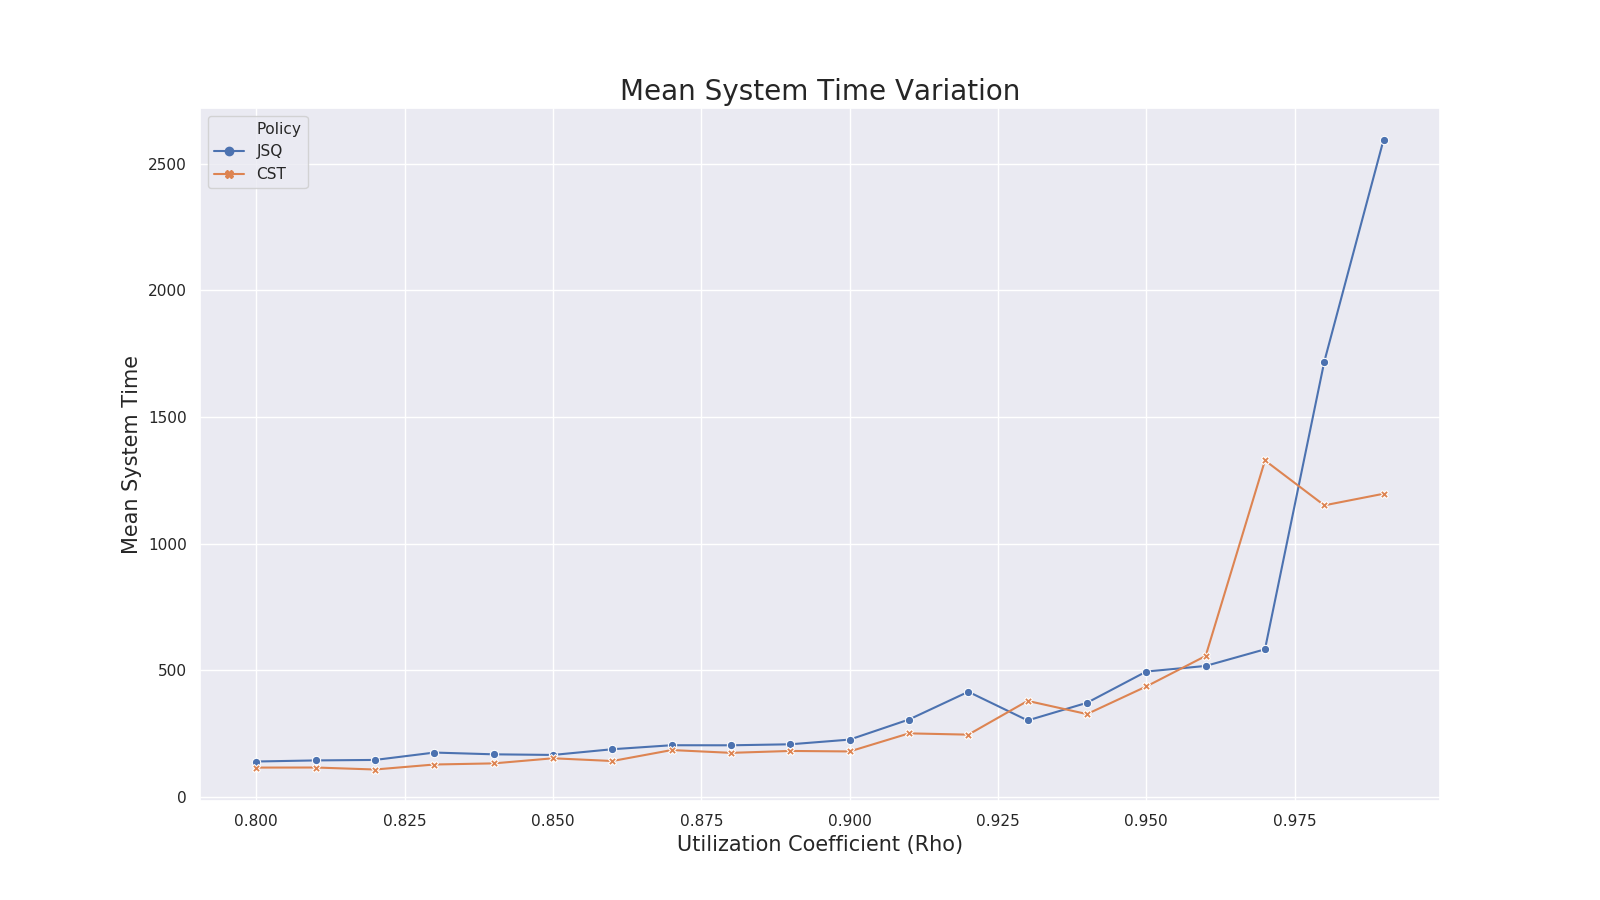
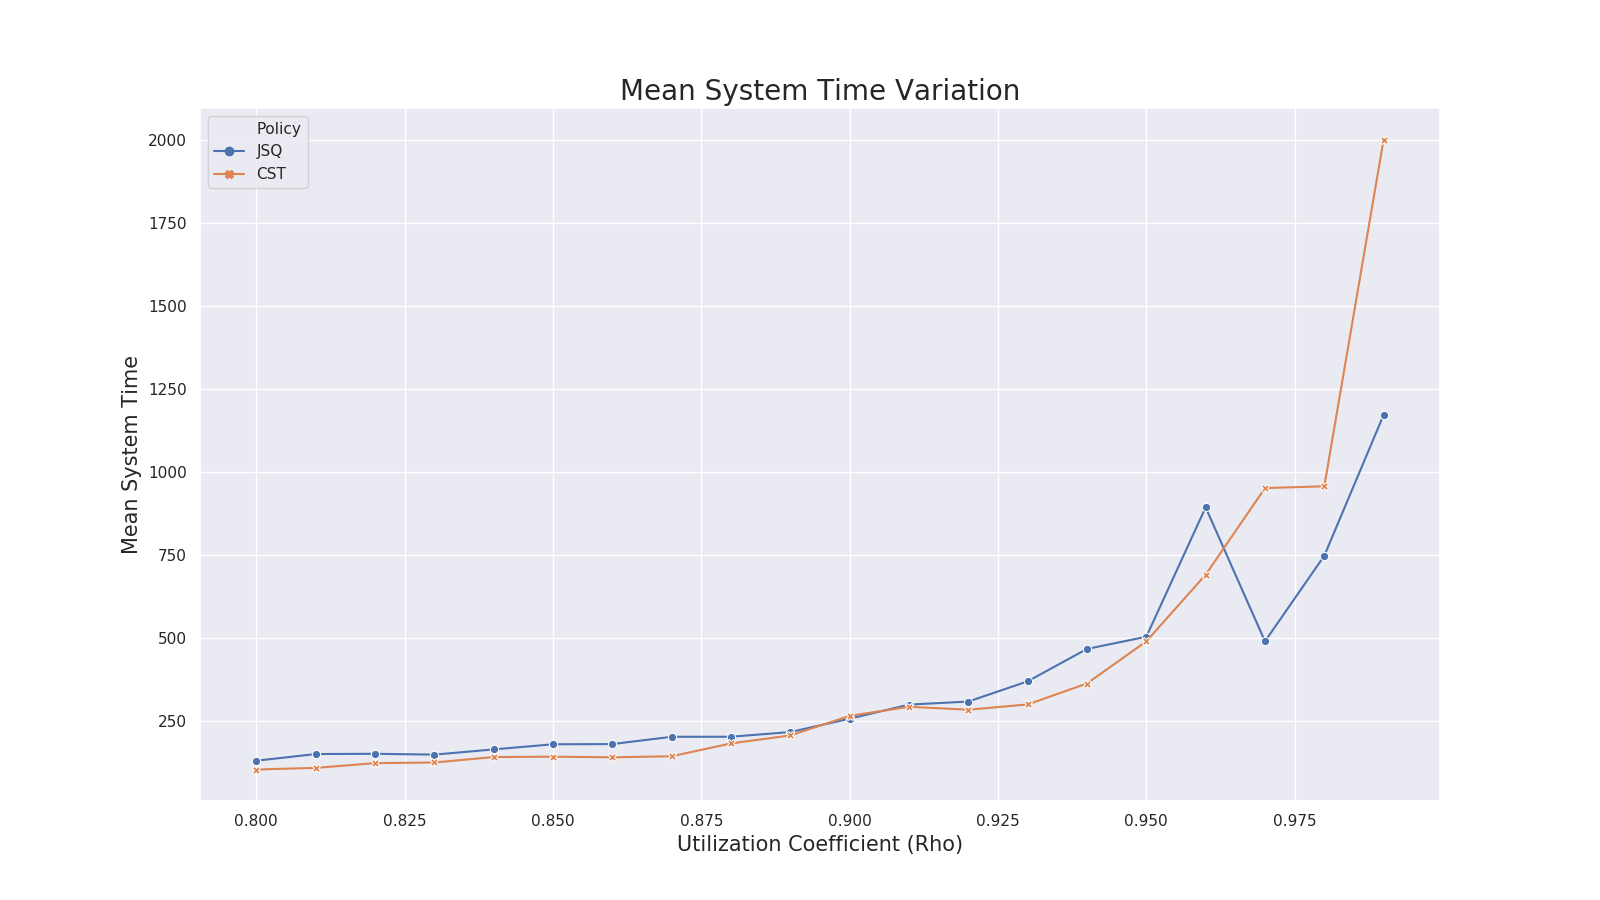
Minor changes

diff --git a/Dispatcher.py b/Dispatcher.py
@@ -186,8 +186,8 @@ class Dispatcher:
 
         sl = (-math.exp(0.2)*(self.beta**self.alpha))**(1/self.alpha)
         sm1 = (-math.exp(0.4)*(self.beta**self.alpha))**(1/self.alpha)
-        sm2 = (-math.exp(0.5)*(self.beta**self.alpha))**(1/self.alpha)
-        su = (-math.exp(0.7)*(self.beta**self.alpha))**(1/self.alpha)
+        sm2 = (-math.exp(0.6)*(self.beta**self.alpha))**(1/self.alpha)
+        su = (-math.exp(0.8)*(self.beta**self.alpha))**(1/self.alpha)
 
         for time in self.tasks_timeline:
             task = self.generate_task()
@@ -268,6 +268,6 @@ class Dispatcher:
         # if self.jbt and (self.rho > 0.989):
         #     plt.plot(range(len(self.rs)), self.rs)
         #     plt.show()
-        print("PROCESS TIMES = ", self.process_times)
+        # print("PROCESS TIMES = ", self.process_times)
 
         return mean_system_time, self.overhead

diff --git a/main.py b/main.py
@@ -10,7 +10,7 @@ number_of_tasks = (10**5)
 number_of_servers = 20
 d = 3
 rho_values = np.arange(0.8, 1., 0.01)
-multiple_sim = False
+multiple_sim = True
 n_sim = 20
 n_proc = mp.cpu_count()
 custom = True
